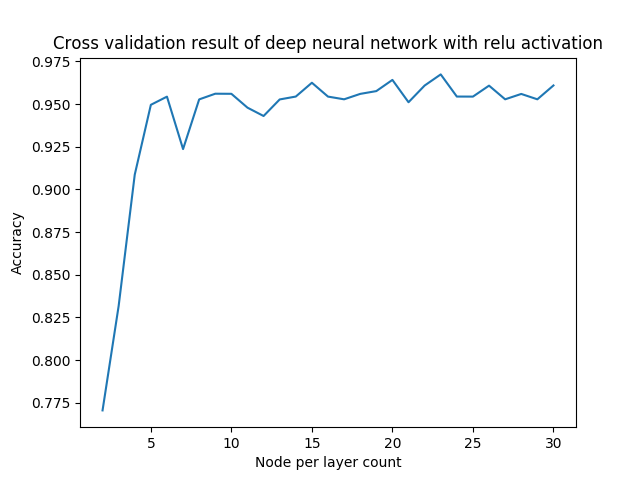
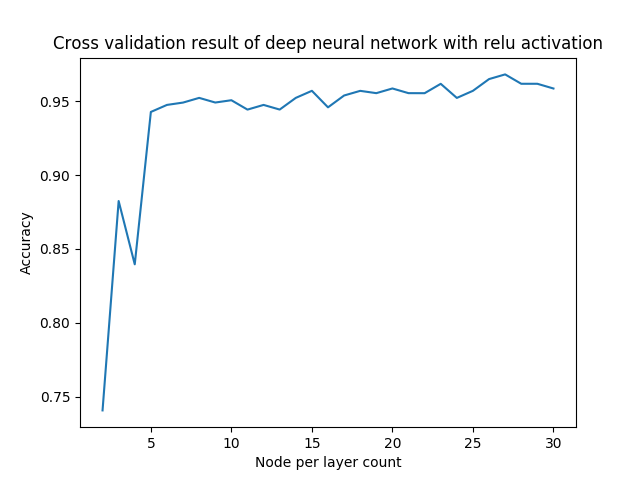
impute missing val

diff --git a/Assignment2/Assignment2_code/final_validation.py b/Assignment2/Assignment2_code/final_validation.py
@@ -20,23 +20,23 @@ final_output = []
 
 sklearn_models = [
     {
-        'model': KNeighborsClassifier(n_neighbors=7),
+        'model': KNeighborsClassifier(n_neighbors=5),
         'name': 'KNN',
     },
     {
-        'model': DecisionTreeClassifier(random_state=0, max_depth=2),
+        'model': DecisionTreeClassifier(random_state=0, max_depth=5),
         'name': 'Decision Tree',
     },
     {
-        'model': RandomForestClassifier(random_state=0, max_depth=4),
+        'model': RandomForestClassifier(random_state=0, max_depth=5),
         'name': 'Random Forest',
     },
     {
-        'model': SVC(kernel='poly', degree=1),
+        'model': SVC(kernel='poly', degree=2),
         'name': 'Polynomial SVM',
     },
     {
-        'model': SVC(kernel='rbf', C=1.3),
+        'model': SVC(kernel='rbf', C=0.7),
         'name': 'RBF SVM',
     }
 ]
@@ -68,17 +68,17 @@ for model_infor in sklearn_models:
 
 # sigmoid
 sigmoid_model = keras.Sequential(name="sigmoid_model")
-sigmoid_model.add(layers.Dense(28, activation="sigmoid"))
-sigmoid_model.add(layers.Dense(28, activation="sigmoid"))
-sigmoid_model.add(layers.Dense(28, activation="sigmoid"))
+sigmoid_model.add(layers.Dense(26, activation="sigmoid"))
+sigmoid_model.add(layers.Dense(26, activation="sigmoid"))
+sigmoid_model.add(layers.Dense(26, activation="sigmoid"))
 sigmoid_model.add(layers.Dense(2, activation="softmax"))
 sigmoid_model.compile(optimizer='adam', loss='categorical_crossentropy', metrics=['accuracy'])
 
 #relu
 relu_model = keras.Sequential(name="relu_model")
-relu_model.add(layers.Dense(28, activation="relu"))
-relu_model.add(layers.Dense(28, activation="relu"))
-relu_model.add(layers.Dense(28, activation="relu"))
+relu_model.add(layers.Dense(27, activation="relu"))
+relu_model.add(layers.Dense(27, activation="relu"))
+relu_model.add(layers.Dense(27, activation="relu"))
 relu_model.add(layers.Dense(2, activation="softmax"))
 relu_model.compile(optimizer='adam', loss='categorical_crossentropy', metrics=['accuracy'])
 tensorflow_NN_models = [
@@ -113,6 +113,7 @@ for model_infor in tensorflow_NN_models:
         'num_val_samples': num_val_samples,
     })
 
+# Citation: https://www.tutorialspoint.com/How-to-save-a-Python-Dictionary-to-CSV-file
 csv_columns = final_output[0].keys()
 csv_file = "final_validation_output.csv"
 try:

diff --git a/Assignment2/Assignment2_code/data.py b/Assignment2/Assignment2_code/data.py
@@ -1,14 +1,19 @@
 import pandas as pd
 import numpy as np
 from sklearn.model_selection import train_test_split
+from sklearn.impute import KNNImputer
 
 header = [0, 1, 2, 3, 4, 5, 6, 7, 8, 9, 10]
 data = pd.read_csv("breast-cancer-wisconsin.data", names=header, na_values="?")
 data.drop(0, axis=1, inplace=True)
-data.dropna(inplace=True)
 X = np.array(data.drop(10, axis=1))
 y = np.array(data[10])
 y = np.where(y == 2, 0, 1)
+
+# impute missing values
+imputer = KNNImputer(n_neighbors=1, weights="uniform")
+X = imputer.fit_transform(X)
+
 X_train, X_val, y_train_1d, y_val_1d = train_test_split(X, y, test_size=0.1, random_state=42)
 
 y_train = y_train_1d.reshape(-1, 1)
@@ -16,3 +21,4 @@ y_val = y_val_1d.reshape(-1, 1)
 
 y_train_onehot = np.array(pd.get_dummies(y_train_1d))
 y_val_onehot = np.array(pd.get_dummies(y_val_1d))
+print(X.shape)
